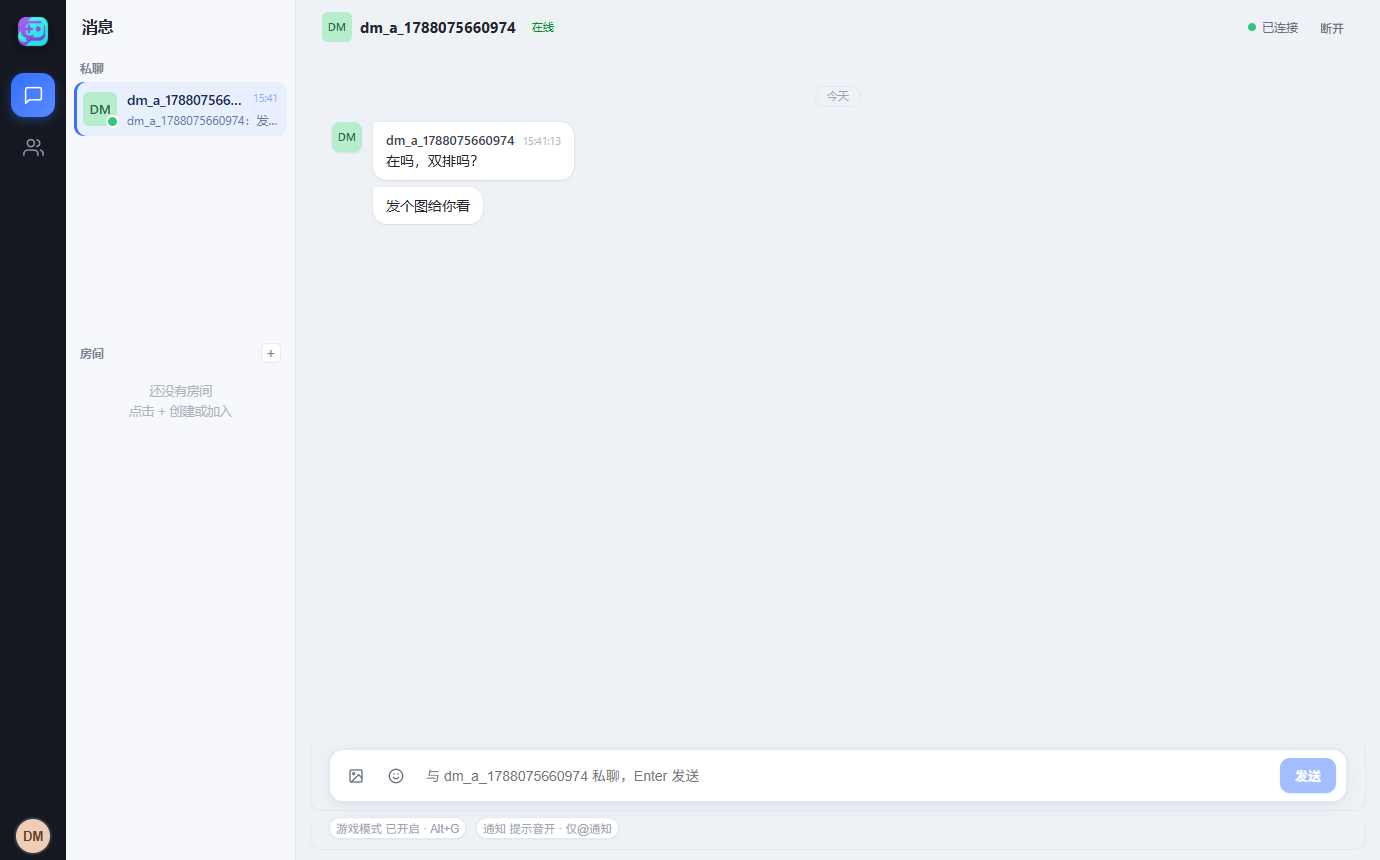
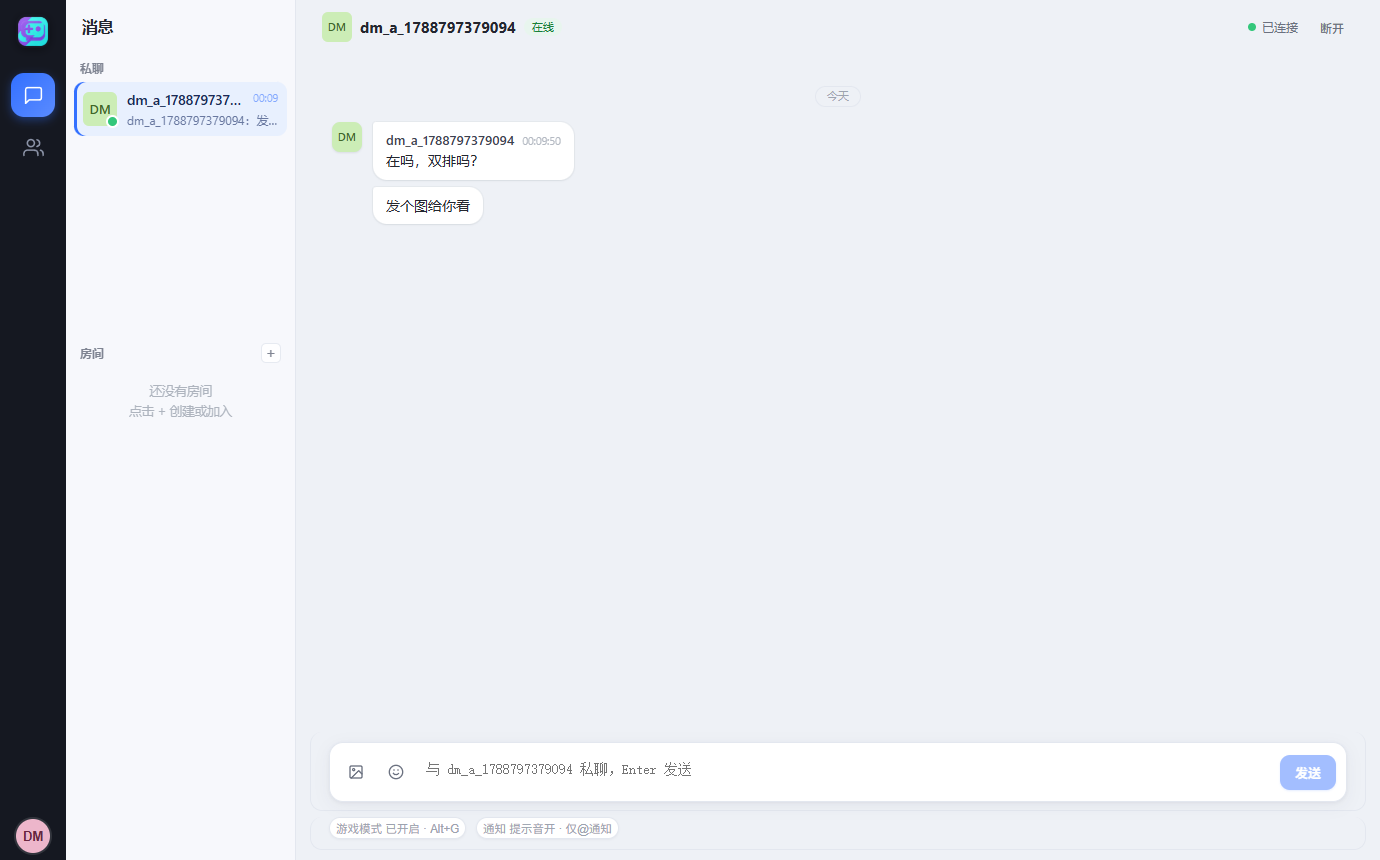
docs: 同步到 v0.8.0 生产现状（版本/服务器/测试数/新回归项/截图）
- README：测试基线 90→91；示例服务器地址改为通用示例（原示例指向已弃用的腾讯云 IP）；
  自托管章节补充「机器上已有 nginx/宝塔 时改用反代」的指引
- architecture：档位说明修正（默认是自动档，不是流畅优先）+ 自动档选档规则；
  补 room_gone 错误码语义；部署选型补 nginx 反代说明
- deployment：发布示例标签 v0.7.1→v0.8.0；3.1 补「只覆盖改动文件再重建镜像」的服务端升级法；
  第 8 节生产状态更新为阿里云香港 + 0.8.0 + 实际验证项；补 git tag -F 的 '#' 注释坑
- testing：测试矩阵补 36~38（room_gone / 设置广播到主窗口 / 屏幕共享全流程生产验收）；
  第 2 节实测基线 91+38 与生产环境说明更新；第 3 节新增 2026-09-11 生产全量检测记录
  （含因显卡驱动阻塞而待验收的全屏采集项）；第 6 节补 CI 产物也带构建标识
- 更新 4 张被 README/testing 引用的界面截图（新采样，尺寸与旧版一致）

diff --git a/docs/architecture.md b/docs/architecture.md
@@ -29,7 +29,7 @@
 | 数据库 | PostgreSQL 16 | 稳定；`pg` 直连 + 纯 SQL migration，无 ORM 心智负担 |
 | 开发/测试库 | PGlite (WASM PostgreSQL) | 本机无 PG/Docker 时的真实 SQL 环境；与生产同源 migration |
 | 认证 | JWT (HS256, jose) + argon2 | 无状态、可水平扩展；密码哈希行业标准 |
-| 部署 | Docker + docker-compose + Caddy | Linux 一键部署；Caddy 自动 HTTPS/WSS |
+| 部署 | Docker + docker-compose + Caddy | Linux 一键部署；Caddy 自动 HTTPS/WSS。**已有 nginx/宝塔面板的机器不装 Caddy**，改用 nginx 反代（占位符：见 deployment 第 3.2 节），compose 里只保留 postgres + server |
 
 ## 3. 目录结构
 
@@ -118,7 +118,7 @@ gametalk/
 
 **房间模型**：服务端内存 `roomId -> userId -> {sockets}`（同一用户可多端连接）。消息先持久化再广播；`joinRoom` 幂等（重复 join 也回 `room:joined`，客户端有 2s 订阅看门狗自愈）；`room:delete` 仅房主可调用，级联删除、广播 `room:deleted` 并清掉所有连接的该房间订阅；`member:kick` 仅房主可调用，把成员移出房间（DB 删除 + 全员通知 `member:kicked` + 被踢者订阅清理），被踢者客户端自动移除房间并切换。**REST 退房同样会清实时订阅**（`dropRoomSubscription`），否则旧连接还能继续发送/撤回。**房主不能退房**（回 `owner_cannot_leave`），只能删房，避免房间失去管理权。**客户端订阅其全部房间**（非活跃房间也能实时收消息，UI 显示未读角标，浮层标注来源房间）。
 
-**错误码语义**：`not_in_room` 专指「你自己不在该房间」，客户端据此把房间从本地移除；「操作目标不在房间」（踢人/禁言/信令对端）用独立的 `target_not_in_room`，客户端只提示、不动自己的房间列表。PG 入参/外键类错误由全局错误处理映射：`22P02`（非法 UUID）→ 400、`23503`（外键不存在）→ 404，不再变成 500。
+**错误码语义**：`not_in_room` 专指「你自己不在该房间」，客户端据此把房间从本地移除；「操作目标不在房间」（踢人/禁言/信令对端）用独立的 `target_not_in_room`，客户端只提示、不动自己的房间列表；**`room_gone`** 用于房间已在别处被解散（断线期间被删、离线队列重放、多端竞态）——WS 层识别 `room_id` 外键冲突（23503）后清理该连接的陈旧订阅，返回 `{code:'room_gone', roomId, message}`，客户端据此移除本地幽灵房间并提示已自动切换。PG 入参/外键类错误由全局错误处理映射：`22P02`（非法 UUID）→ 400、`23503`（外键不存在）→ 404，不再变成 500。
 
 **历史分页**：`GET /api/rooms/:id/messages` 与 `GET /api/dm/:peerId/messages` 都是游标分页（`before` + `limit`，默认 50、上限 100）。实现上多取一条用于判断 `hasMore`，**保留最新的 limit 条**（丢弃最旧的那条多取项）；游标子查询限定在本房间/本会话内。客户端首屏加载与「加载更早」都依赖这个语义。
 
@@ -148,9 +148,9 @@ gametalk/
 
 **屏幕共享**：房间内 1 对 N（支持多人同时共享）的 WebRTC 共享，**媒体流不经服务器**，服务端只做信令透传。WS：`screen:start`（仅房间成员发起，向全房间广播 `screen:started{roomId,userId,username}`）、`screen:stop`（广播 `screen:stopped{roomId,userId}`，各端按 userId 精确移除）、`screen:signal`（按 `to` 定向转发 `{from,roomId,data}`，服务端校验收发双方均为同房间成员——防把媒体信令发给陌生人，且**不解析 data**）。`room:joined` 除完整花名册外返回 `screenShares:[{userId,username}]` 当前快照，晚加入成员据此显示可选的「观看」入口，不自动观看；服务端按 owner socket 清理断开的共享并广播 `screen:stopped`，显式停止按用户清理，支持多人并行共享。信令协议（data 内容，客户端约定）：观看端 `request` → 共享者为其建 sender 连接并回 `offer`（晚加入靠观看端主动请求触发，不做预建 mesh）→ 观看端 `answer` → 双向 `candidate`；观看端关窗发 `bye`，共享者立即释放该路连接。**观看为独立系统窗口**（`screen.html` 入口）：MediaStream 不能跨 webview，故观看窗自持一条 WS 信令连接（同源共享 localStorage token）并建立自己的 RTCPeerConnection；关窗（含原生标题栏 X，经 onCloseRequested）先发 `bye` 再关闭。**跨网络兜底（自建 TURN）**：服务器管理员部署 coturn（`use-auth-secret` 模式），服务端经 `GET /api/turn`（登录态）按用户签发限时 1 小时凭据（`username='<到期时间戳>:<userId>'`，`credential=base64(hmac-sha1(TURN_SECRET, username))`）；客户端缓存 55 分钟并作为首选 ICE——密钥不进客户端，中继不会变成无鉴权的开放代理。未配置 `TURN_SECRET`/`TURN_URL` 时接口返回空、客户端仅用 STUN（同网直连可用，跨网对称 NAT 受限）。采集端请求 `audio:true + systemAudio:'include'`，窗口源额外提示 `windowAudio:'window'`（均为 WebView2/Chromium 实验性 hint，最终以原生选择器和返回音轨为准）；`contentHint='motion'`；WebView2 采集要求窗口高度 ≥600px。
 
-**码率策略（v0.8）**：mesh 下每增加一个观看者就多一路编码，所以按「总预算 ÷ 观看人数」分摊（默认 12Mbps，设置可改），单路下限 1.2Mbps；画质档位决定单路上限与取舍——清晰优先（`maxBitrate` 6M / `maintain-resolution`，带宽不足掉帧）、流畅优先（4M / `balanced`，带宽不足降分辨率，默认）、省流量（1.5M / `scaleResolutionDownBy=1.5` / `balanced`）；系统声音轨固定 128kbps。每 2s 读 `getStats()`（outbound/inbound-rtp 字节增量、`remote-inbound-rtp` 的丢包与 RTT）驱动自适应系数（丢包 >5% 或 RTT >400ms 下调 25%，最低 60%；恢复后每 4s 上调 15%），变化超过 1% 时重设所有 sender 参数。
+**码率策略（v0.8）**：mesh 下每增加一个观看者就多一路编码，所以按「总预算 ÷ 观看人数」分摊（默认 12Mbps，设置可改），单路下限 1.2Mbps；画质档位决定单路上限与取舍——**自动（默认）**按「可用预算/观看人数」选档（≥5Mbps 给清晰优先、≥2.5Mbps 给流畅优先、否则省流量，再叠加实测丢包与 RTT 的自适应系数）、清晰优先（`maxBitrate` 6M / `maintain-resolution`，带宽不足掉帧）、流畅优先（4M / `balanced`，带宽不足降分辨率）、省流量（1.5M / `scaleResolutionDownBy=1.5` / `balanced`）；手动锁定某一档后自适应仍在，但不再换档。控制条与观看窗都显示**当前生效**的档位（自动档标签形如 `自动·清晰`）。系统声音轨固定 128kbps。每 2s 读 `getStats()`（outbound/inbound-rtp 字节增量、`remote-inbound-rtp` 的丢包与 RTT）驱动自适应系数（丢包 >5% 或 RTT >400ms 下调 25%，最低 60%；恢复后每 4s 上调 15%），变化超过 1% 时重设所有 sender 参数；`setParameters` 被拒时退回「只改码率」重试并在控制条提示。
 
-**中继限码率**：TURN 中继会占用服务器公网出口（媒体先到服务器再转发）。客户端每 2s 的采样会读取选中候选对的类型，一旦本地或对端为 `relay`，单路目标码率被压到 `RELAY_MAX_BPS`（1.2Mbps）并在控制条显示「服务器中转」——避免一路 1080p 吃满服务器出口、连带影响聊天流量。服务端建议同时给 coturn 配 `max-bps`（单会话）与 `bps-capacity`（全服，单位字节/秒、上下行分别计）做兜底。
+**中继限码率**：TURN 中继会占用服务器公网出口（媒体先到服务器再转发）。客户端每 2s 的采样会读取选中候选对的类型，一旦本地或对端为 `relay`，单路目标码率被压到服务端下发的 `relayMaxBps`（`TURN_RELAY_MAX_BPS`，默认 1.2Mbps）并在控制条显示「服务器中转」——避免一路 1080p 吃满服务器出口、连带影响聊天流量。服务端建议同时给 coturn 配 `max-bps`（单会话）与 `bps-capacity`（全服，单位字节/秒、上下行分别计）做兜底。
 
 **断线自愈**：ICE `disconnected` 等 2s、`failed` 等 0.5s 触发 `restartIce()`，退避 2/4/8s 最多 4 次，`connected` 后复位。采集窗与观看窗的信令改用 `app/signalSocket.ts`（退避重连 + 心跳 + 半开检测）：重连后采集端重新 `screen:start`、观看端**带原 cid 重发 `request`**——共享端对 `connected/completed/checking/new` 的既有 sender 保持不动，只有已 failed 的才重建，因此信令抖动期间媒体不中断。
 

diff --git a/docs/testing.md b/docs/testing.md
@@ -52,7 +52,7 @@ cd client/src-tauri && cargo check
 | 25 | 邀请链接（创建 / 预览 / 过期 410 / 耗尽 410 / 幂等入房不计数 / 创建者与房主吊销） | ✅（invites.test.ts） | ✅ 双账号浏览器（深链模拟入房，dev/e2e-invite-forward.mjs） |
 | 26 | 消息转发（源可见性 / 目标唯一 / 服务端代复制 media / 「来自…」来源标注；转发进房复用禁言校验） | ✅（forward.test.ts） | ✅ 双账号浏览器（转发角标，dev/e2e-invite-forward.mjs） |
 | 27 | 屏幕共享 P2P 信令（非成员拒绝发起 / 启停广播带 userId / 定向转发带 roomId 与越权拒绝） | ✅（screen.test.ts，服务端信令） | ✅ 跨网络真机验收通过（P2P + 自建 TURN 中继兜底；观看为独立系统窗口） |
-| 28 | TURN 中继凭据端点（鉴权 / 凭据绑定用户 / HMAC 数学 / 未配置返回空） | ✅（turn.test.ts，3 例） | ✅ 真机跨网走 VPS 自建 coturn（TCP 中继，UDP 被安全组拦） |
+| 28 | TURN 中继凭据端点（鉴权 / 凭据绑定用户 / HMAC 数学 / 未配置返回空） | ✅（turn.test.ts，3 例） | ✅ 真机跨网走自建 coturn（香港服务器 UDP/TCP 3478 均可用，`/api/turn` 返回服务端公网地址的中继候选（`udp/<服务器IP>`）） |
 | 29 | 历史分页保留最新消息（rooms + dm，翻页不漏不重） | ✅（regressions.test.ts） | ✅ 真机灌 58 条后重启，首屏含最新一条（2026-09-09） |
 | 30 | 纯图消息（无文字）发送 | ✅（store.regressions.test.ts） | ✅ 真机实测发送成功（2026-09-09，修复前静默丢弃） |
 | 31 | 踢「已退房成员」不移除操作者自己的房间 | ✅（regressions.test.ts + store 回归） | — |
@@ -60,8 +60,11 @@ cd client/src-tauri && cargo check
 | 33 | ScreenShareManager 生命周期（watch/offer/answer/bye、重复 request 非破坏性、ICE 重启） | ✅（screenShare.test.ts，8 例，mock RTCPeerConnection） | — |
 | 34 | 屏幕共享真实媒体链路（合成采集流 → 真实 P2P → 画面推进 + 音频 RMS） | ✅（dev/e2e-screen-share-media.mjs，7/7） | ✅ 双实例真机：整屏+系统音频共享，控制条与观看窗数据正常（2026-09-09） |
 | 35 | 码率分摊与画质档位（12M 预算下 1/4/12 人分别 4M/3M/下限；自动档按人数选档；参数下发被拒时回退） | ✅（screenShare.test.ts，11 例） | ✅ 真机自适应 + 档位切换实测：省流量 1280×720/1.3Mbps → 流畅优先 2560×1440/4.1Mbps·29fps |
+| 36 | 房间被解散后写消息（`room_gone` + roomId，不再回 `internal error`，并清陈旧订阅） | ✅（regressions.test.ts） | ✅ 生产真机复现并验证（2026-09-11） |
+| 37 | 设置广播到主窗口（主题 / 提示音音量等字段主窗口跟随变化） | 逻辑随 store（settings:changed 分支） | ✅ 生产真机双实例（深色模式两窗同步，2026-09-11） |
+| 38 | 屏幕共享全流程（窗口源采集 → 控制条数据 → 观看窗播放 → 档位切换 → 停止后观看窗自动关闭） | ✅（screenShare.test.ts 12 例 + e2e-screen-share-media.mjs） | ✅ 生产真机双实例端到端（2026-09-11，含「切回流畅优先」复验） |
 
-当前实测：server **90** 测试（11 文件）+ client **38** 测试（4 文件）全绿；lint 双工作区通过；生产模式冒烟（health/register/login）通过。VPS 生产环境 2026-09-09 已更新至 0.7.1 并验证（`/health`、`/api/turn` 匿名 401、WS 无效 token、compose 与备份逐字节一致、postgres/coturn 未动）。
+当前实测：server **91** 测试（11 文件）+ client **38** 测试（4 文件）全绿；lint 双工作区通过；生产模式冒烟（health/register/login）通过。生产环境（境外云服务器，地址不记录在本仓库）2026-09-11 运行 **0.8.0** 并验证（`/health` 版本、`/api/turn` 匿名 401、WSS 握手、容器 healthy、宝塔与其他站点不受影响），当日测试数据已全量清理（users/rooms/messages/dm_messages/media/invite_links 归零）。
 
 ## 3. 真机验收清单
 
@@ -79,6 +82,15 @@ cd client/src-tauri && cargo check
 - [x] 屏幕共享：系统屏幕选择器正常弹出；跨网络 P2P 连通；直连不通时经服务器自建 coturn 中继出画面（2026-09-05 真机确认）
 - [x] 电脑控制真机全流程（2026-09-09，release 包 + 隔离 WebView2 profile）：注册 → 建房 → 纯图无文字发送 → 灌 58 条消息重启后首屏含最新 → 第二账号消息触发浮层 → Alt+G 呼出输入条 → ESC 关闭 → 关于页/登录页显示构建标识
 - [ ] 观看改为独立系统窗口：原生拖拽 / 缩放；关闭观看窗后共享者连接释放；共享结束窗口自动关闭（浏览器路径已验证，Tauri 原生关闭路径待验收）
+
+> 以下为 v0.8.0 生产环境全量检测记录（2026-09-11，双实例连生产服务器，全程电脑控制 + 截图/可访问性树取证）：
+
+- [x] 注册 / 改服务器地址 / 建房 + 邀请码加入 / 成员在线 2/2 / 双向实时消息 / 纯图片消息 / 编辑（双端「已编辑」同步）/ 撤回（居中提示 + 预览同步）
+- [x] 游戏模式 Alt+G 输入条 + 浮层提示（失焦自动关闭为设计行为）；@提及选择器弹出并可用键盘选中
+- [x] 设置：深色模式（主窗口与设置窗同步变深）、音量滑块与四种试听、共享画质档位与上行预算
+- [x] 屏幕共享端到端（窗口源、不带系统音频）：控制条实时预览 + `● 正在共享` + 观看人数 + `1296×688 · 4.4 Mbps · 9 fps` + 生效档 `自动·清晰`；观看端独立窗口播放真实远端画面；档位切换 省流量 864×459 / 流畅优先 1296×688 / 自动·清晰 即时生效；停止后控制条消失、观看窗自动关闭
+- [x] `room_gone`：房间被删后继续发送，客户端提示「房间已不存在（可能已被解散）」并移除本地房间（不再 `internal error`）
+- [ ] 待验收（环境阻塞）：**全屏采集 + 系统音频**路径——本开发机（RTX 5070 Ti + 向日葵虚拟显示器 + nvlddmkm 32.0.16.1074）在该路径上会触发 `0x116 VIDEO_TDR_ERROR` 蓝屏（WER 归因显卡驱动），需更新驱动或换机器后再验
 
 ## 4. 面向用户的本机验收步骤（无服务器部署时）
 
@@ -119,7 +131,7 @@ cd client/src-tauri && cargo check
 2. 客户端登录页与设置「关于」页显示的标识
 3. 根目录安装包文件名（`GameTalk-<版本>-build.<标识>-x64-Setup.exe`）
 
-同名版本的不同构建据此区分。
+同名版本的不同构建据此区分。CI 打包（推送 `v*` 标签）同样如此：workflow 在构建后运行 `client/scripts/copy-artifacts.mjs`，所以 Release 里的 Windows 资产名形如 `GameTalk-0.8.0-build.20260910.1747.afe7926-x64-Setup.exe`。
 
 ## 7. 验收结论记录
 

diff --git a/README.md b/README.md
@@ -84,7 +84,7 @@ GameTalk 把打字这一步搬进游戏画面：按 `Alt+G`，屏幕底部弹出
 
 ### 2. 连接服务器
 
-第一次打开是登录页。如果你用别人搭好的服务器，点「服务器」那一行填地址（例如 `https://chat.example.com` 或 `http://123.207.234.50:8787`），然后注册账号。地址带不带结尾的 `/` 都行，客户端会自动纠正。
+第一次打开是登录页。如果你用别人搭好的服务器，点「服务器」那一行填地址（例如 `https://chat.example.com`，或者自建时用的 `http://192.168.1.10:8787`），然后注册账号。地址带不带结尾的 `/` 都行，客户端会自动纠正。
 
 没服务器的话可以点「离线试用」看看界面，但不能收发消息；想自己搭见[自托管服务端](#自托管服务端)。
 
@@ -262,6 +262,8 @@ bash deploy.sh        # 首次运行会生成 .env，填好域名后再跑一次
 
 脚本会自动生成数据库密码和 JWT 密钥、拉起服务、装上每日备份的 systemd timer。跑完后 `https://你的域名/health` 应该返回一段 JSON，把域名填进客户端即可。
 
+机器上**已经有 nginx 或宝塔面板**在跑别的网站？别装 Caddy（会抢 80/443），改成 nginx 反代：只起 postgres + server 两个容器，server 端口保持仅本机监听，再按 [部署文档 3.2 节](docs/deployment.md)配一个独立 vhost 并用 acme.sh 签证书。
+
 不用域名、只想在内网或直连 IP 上跑也可以：把 `docker/docker-compose.yml` 里的 Caddy 服务去掉，把 server 的端口改成 `0.0.0.0:8787`，客户端填 `http://服务器IP:8787`。这种情况下没有 HTTPS，密码和消息是明文传输的，建议只在可信网络里这么用。
 
 ### 配置
@@ -368,7 +370,7 @@ cd client && npm install && npm run tauri dev
 npm test && npm run lint && npm run typecheck
 ```
 
-测试基线：服务端 90 例（PGlite 内存库 + 真实 WebSocket 集成），客户端 38 例（含屏幕共享连接生命周期、自动档位、码率分摊与中继限速的单元测试）。仓库里另有 13 个双账号浏览器回归脚本（`dev/e2e-*.mjs`），覆盖私聊、编辑、表情、通知跳转、邀请链接、屏幕共享等流程；其中 `e2e-screen-share-media.mjs` 用合成采集流跑真实的 P2P 媒体链路（断言画面推进与音频 RMS），不需要人工点选择器。
+测试基线：服务端 91 例（PGlite 内存库 + 真实 WebSocket 集成），客户端 38 例（含屏幕共享连接生命周期、自动档位、码率分摊与中继限速的单元测试）。仓库里另有 13 个双账号浏览器回归脚本（`dev/e2e-*.mjs`），覆盖私聊、编辑、表情、通知跳转、邀请链接、屏幕共享等流程；其中 `e2e-screen-share-media.mjs` 用合成采集流跑真实的 P2P 媒体链路（断言画面推进与音频 RMS），不需要人工点选择器。
 
 数据库结构由 16 个纯 SQL 迁移文件定义（`server/migrations/`），启动时按序自动应用。开发用的 PGlite 和生产 PostgreSQL 执行的是同一份 SQL。
 

diff --git a/docs/deployment.md b/docs/deployment.md
@@ -75,8 +75,12 @@ cd client && npm run build:full
 
 每次构建都会生成唯一构建标识（`build.<时间戳>.<git 短 sha>`），显示在客户端登录页与设置「关于」页，也写进根目录安装包文件名。版本号相同的不同构建据此区分，核对方法见 [testing.md](testing.md) 第 6 节。
 
-**三端 Release（推荐）**：推送 `v*` 标签（如 `v0.7.1`）触发 `.github/workflows/build-desktop.yml`，
+**三端 Release（推荐）**：推送 `v*` 标签（如 `v0.8.0`）触发 `.github/workflows/build-desktop.yml`，
 由 GitHub Actions 构建 Windows NSIS / Linux deb+AppImage / macOS dmg，并自动挂到对应 GitHub Release（正文取自 annotated tag 的说明）。
+
+> 打 tag 时注意：`git tag -a -F <file>` 会把**以 `#` 开头的行当注释删掉**（与 `git commit -F` 同源），
+> 正文里的 Markdown 标题会整段丢失。要么加 `--cleanup=verbatim`，要么事后 `gh release edit --notes-file` 补。
+> Windows 产物的文件名由 `client/scripts/copy-artifacts.mjs` 生成，带唯一构建标识（`build.<时间戳>.<短sha>`），方便区分同版本号的不同构建。
 
 ## 3.1 服务端升级
 
@@ -207,7 +211,19 @@ docker compose start server                      # 3) 重启并验证 /health、
 
 该部署方案已在真实服务器上长期稳定运行（2026-08-28 起），客户端与线上服务端保持同版本节奏。
 
-最近一次生产更新：2026-09-09 升至 **0.7.1**（服务端 14 项缺陷修复，无新增迁移）。验证项：`/health` 版本、`/api/turn` 匿名 401、WS 无效 token 拒绝、compose 与更新前逐字节一致、postgres 与 coturn 容器未重建。自建部署按第 2 节流程操作即可，数据库备份与恢复见第 6 节。
+**当前生产部署形态（2026-09-11 起）**：境外云服务器，与宝塔面板及其他站点共存，因此**没有装 Caddy**，走第 3.2 节的 nginx 反代方案，证书用 acme.sh（webroot）签发到宝塔 cert 目录并配置自动续期；coturn 以 host 网络运行，UDP/TCP 3478 均已放行。具体域名与 IP 不写进本仓库（部署者自己记在密码管理器里即可）。
+
+最近一次生产更新：2026-09-11 升至 **0.8.0**（含 `room_gone` 修复，无新增迁移）。验证项：`/health` 返回 200 且版本正确、`/api/turn` 匿名 401、WSS 握手正常、容器 healthy、宝塔与其他站点不受影响。**服务端小改动可以只覆盖改动文件再重建镜像**：
+
+```bash
+# 本地：只上传改动的服务端源文件（示例，地址换成你自己的）
+scp server/src/ws/gateway.ts root@<你的服务器IP>:/root/gametalk/server/src/ws/
+# 服务器：重建并重启 server 容器
+cd /root/gametalk/docker && docker compose build server && docker compose up -d server
+curl -s https://<你的域名>/health
+```
+
+自建部署按第 2 节流程操作即可，数据库备份与恢复见第 6 节。
 
 ## 9. TURN 中继（跨网络屏幕共享，可选）
 
